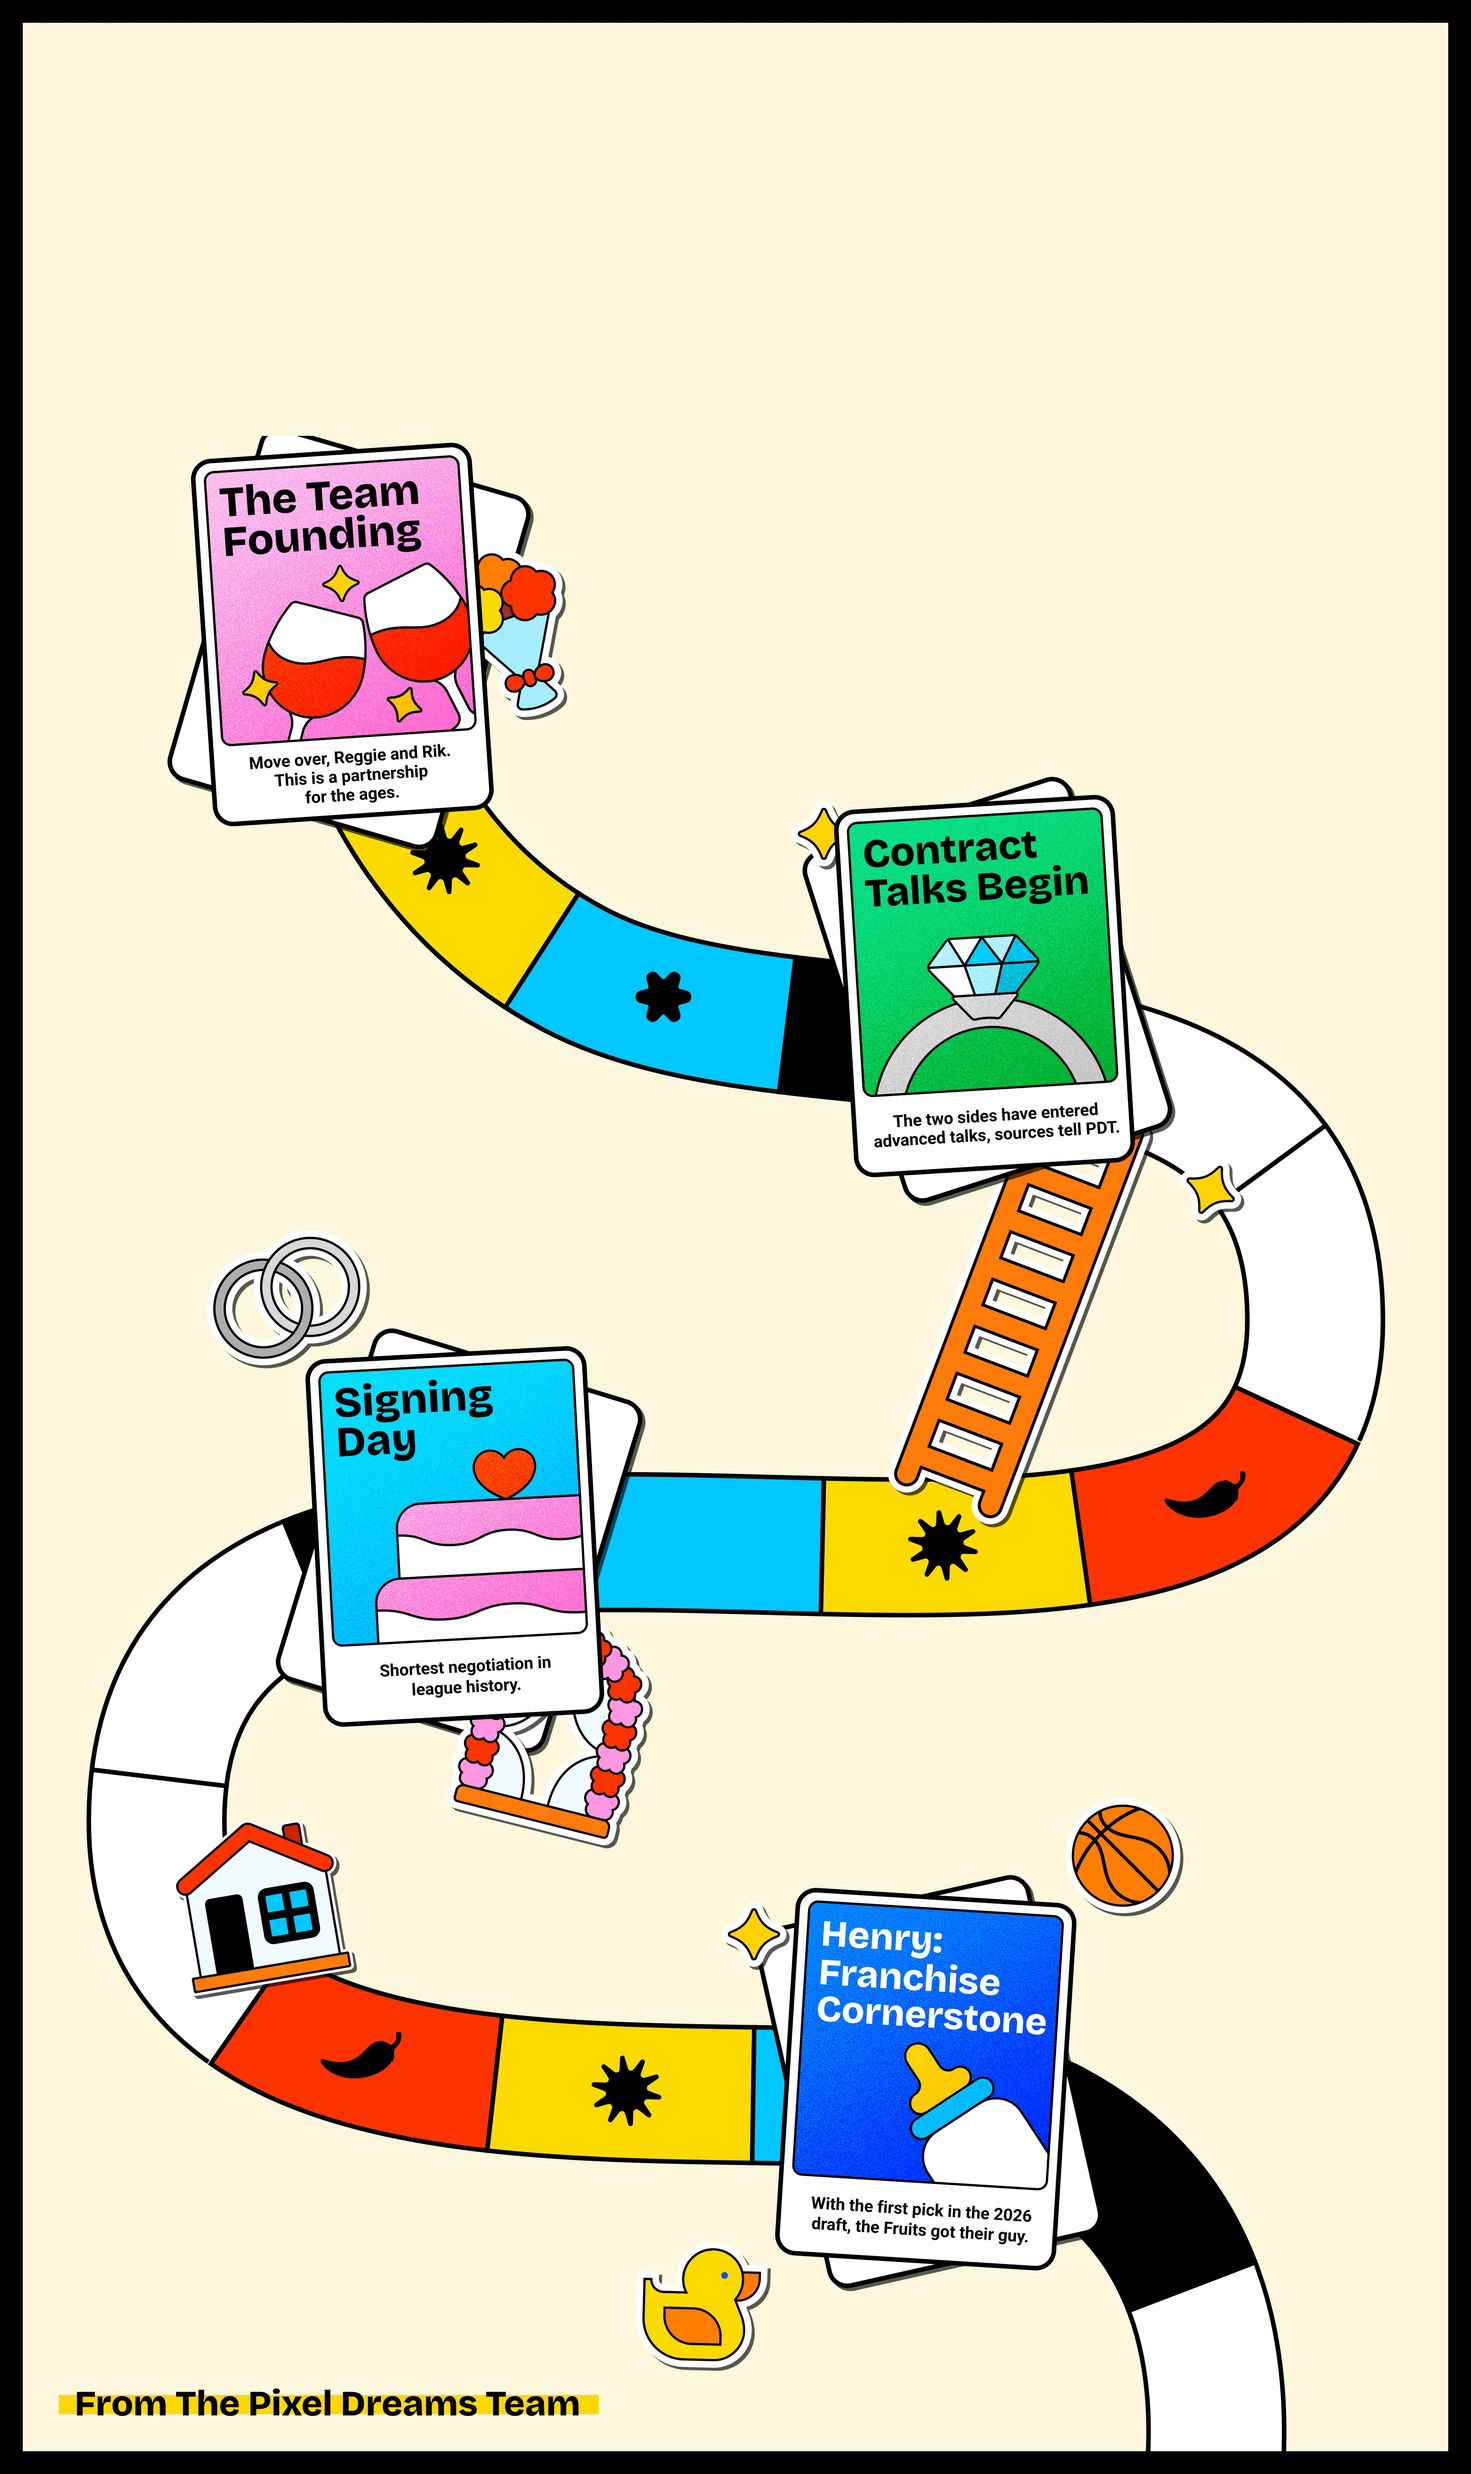
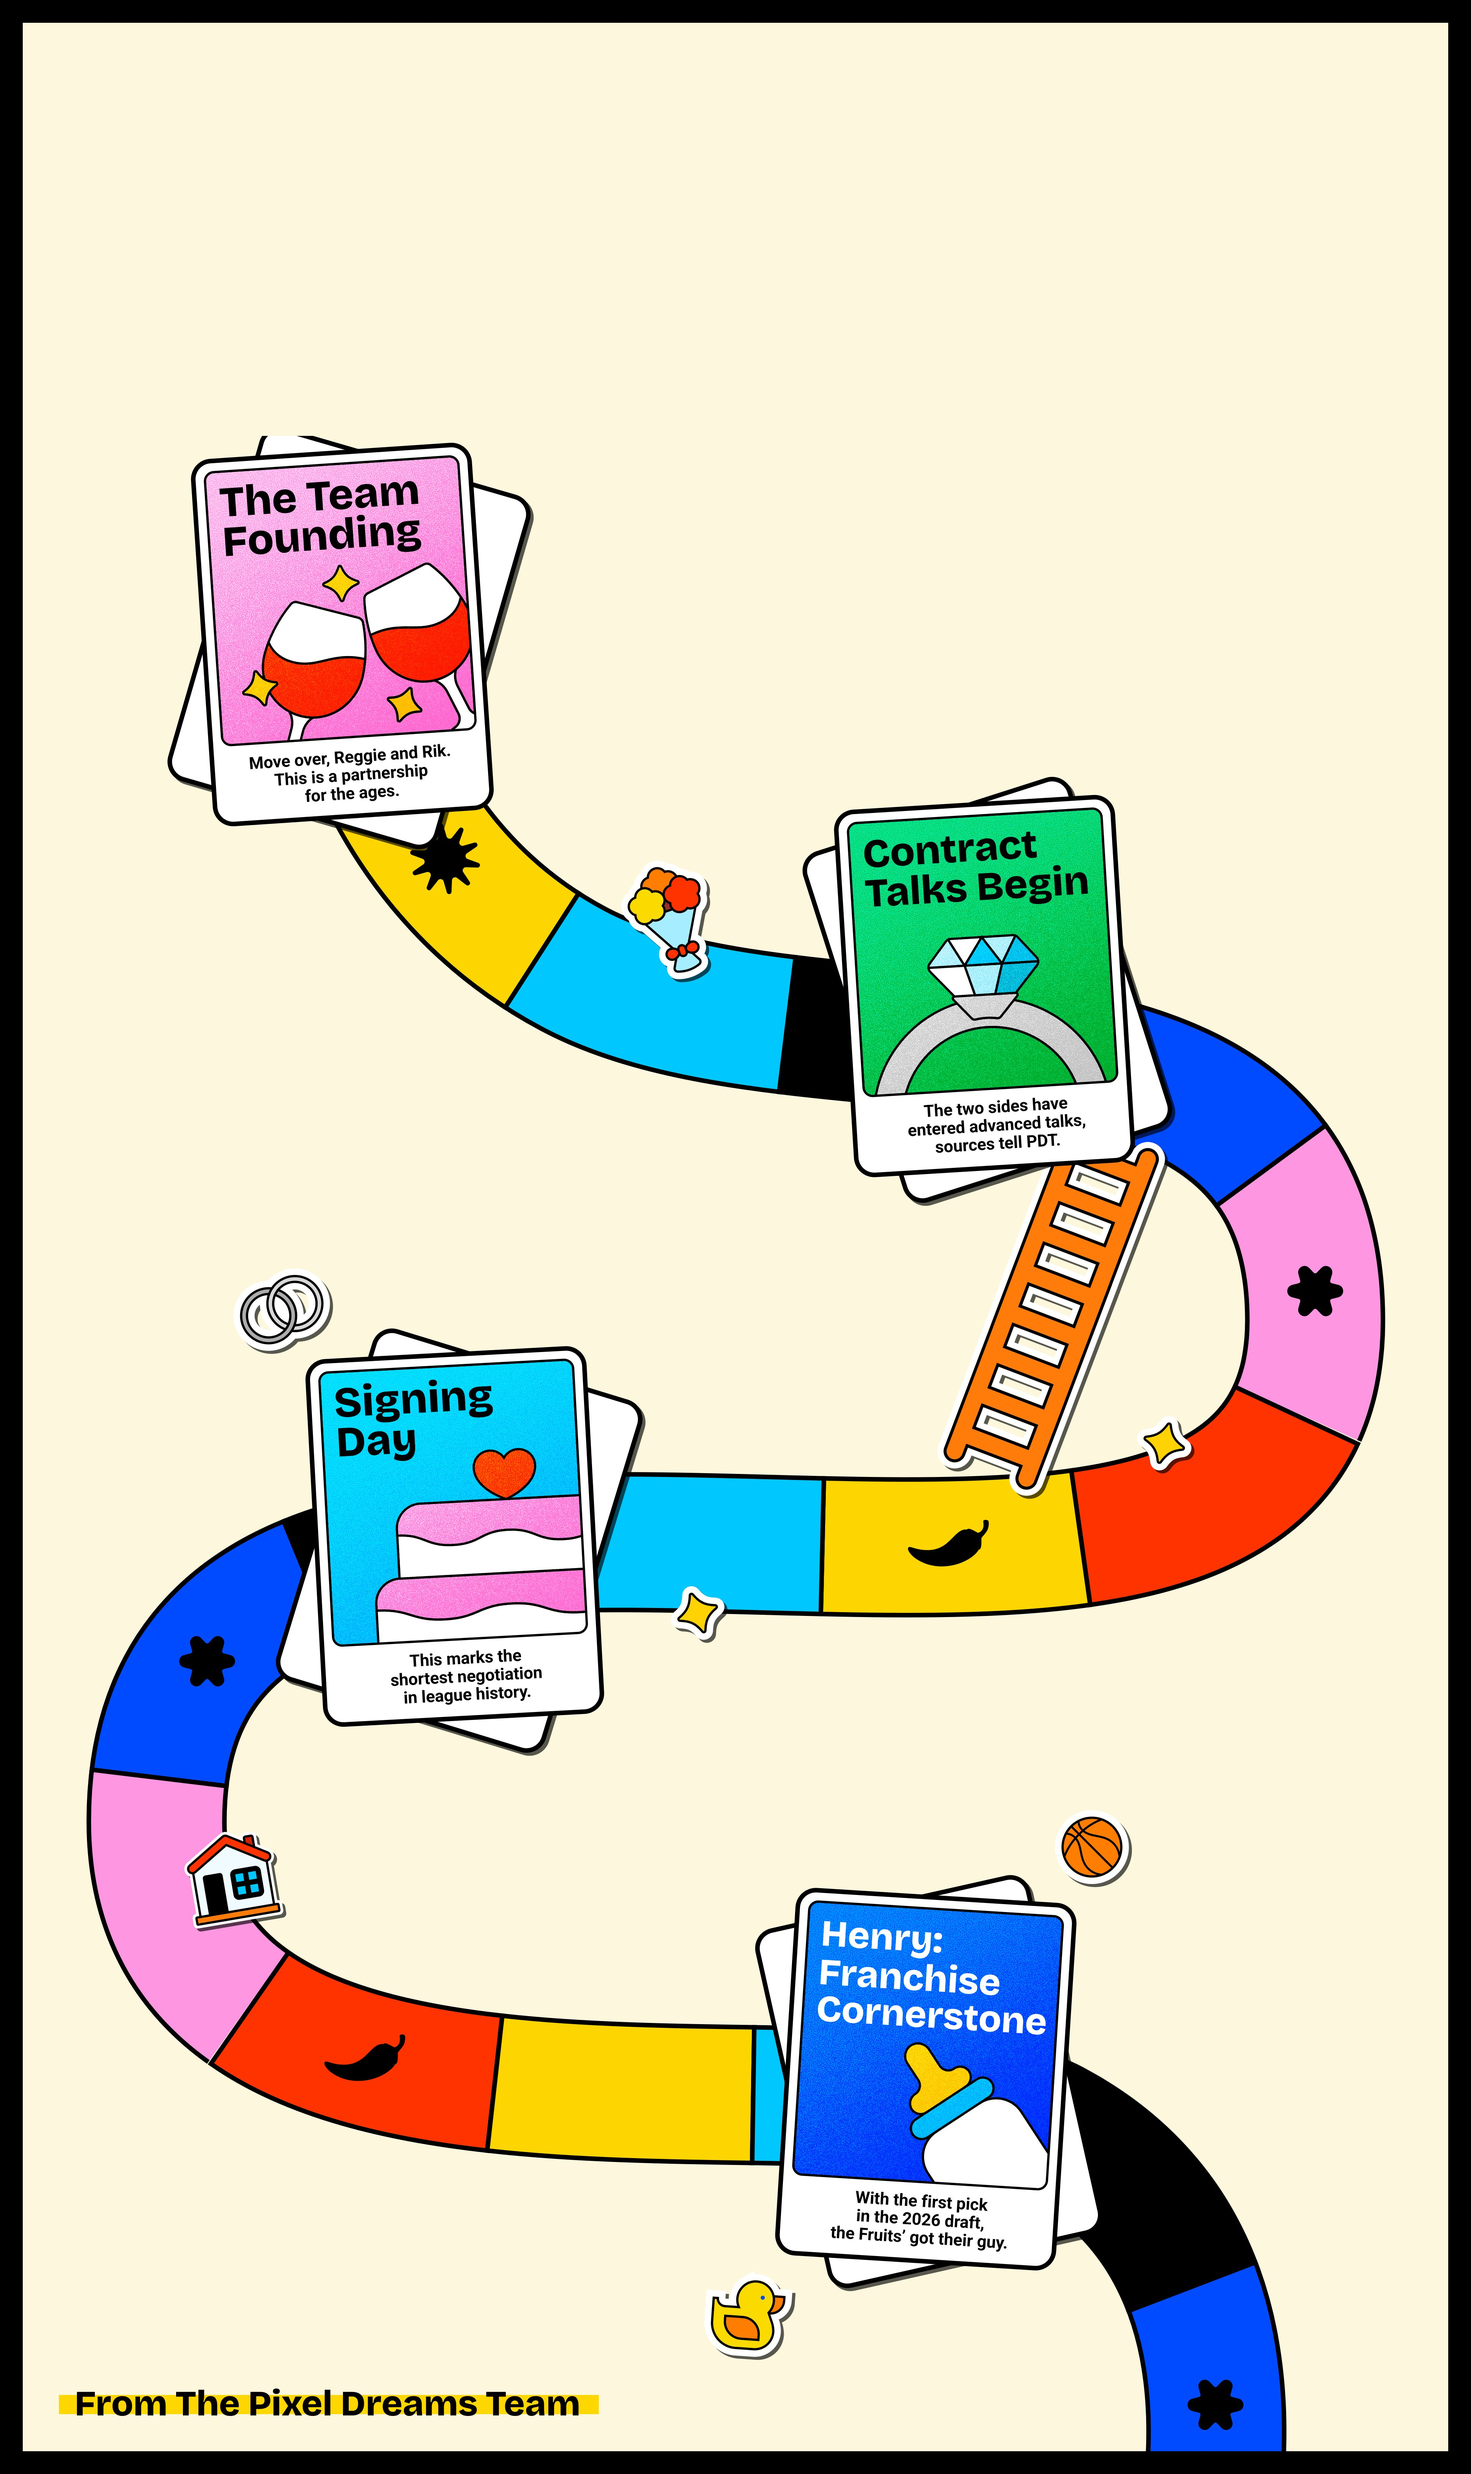
Updated board art (recolored 6-color track) + Aug 13 PM feedback
- Re-extracted assets from Kharisel's updated .ai: blue/pink track
  segments, revised captions on Signing Day + Henry, moved stickers.
  Card slot transforms measured identical — art swap only.
- Draw is now a single click: card flies from the deck and lies flat
  on its slot, flipping mid-flight. No shuffle, no popup, no X.
  (Reveal popup + X/ESC remain for free-explore revisits.)
- Faster intro zoom after Let's Celebrate (1.1s -> 0.7s)
- Board is manually pannable during play (drag / touch / wheel);
  camera still auto-follows each draw
- Play zoom tightened a notch (cardHeight 0.26 -> 0.29)

diff --git a/js/main.js b/js/main.js
@@ -327,78 +327,43 @@ function promptDeck() {
       onComplete: () => gsap.set(deck, { filter: "none" }) });
 }
 
-/* ================= draw: shuffle → reveal popup → land → walk ================= */
+/* ================= draw: card flies from the deck, lies flat on its slot =================
+   No shuffle, no popup, no X (Waheed, Aug 13 PM): clicking the deck sends
+   the card straight to its board position, flipping face-up mid-flight. */
 function drawCard() {
   if (busy || freeExplore || drawn >= KIT.milestones.length) return;
   busy = true;
   deckBubble.textContent = "";
 
-  const cards = deck.querySelectorAll(".deck-card");
-  const shuffle = gsap.timeline({ onComplete: () => showReveal(drawn, false) });
-  cards.forEach((c, i) => {
-    shuffle.to(c, {
-      x: gsap.utils.random(-26, 26),
-      y: gsap.utils.random(-20, 8),
-      rotation: gsap.utils.random(-16, 16),
-      duration: 0.13,
-    }, i * 0.04)
-    .to(c, { x: 0, y: 0, rotation: 0, duration: 0.14 }, ">");
-  });
-  shuffle.repeat(1);
-}
-
-// the reveal popup: dimmed backdrop, flip, then an X in the corner.
-// In revisit mode (free explore) the X just closes.
-function showReveal(index, revisit) {
-  const m = KIT.milestones[index];
-  el("revealImg").src = m.face;
-  el("revealImg").alt = m.alt;
-  gsap.set(revealInner, { rotationY: revisit ? 180 : 0 });
-  gsap.set(revealClose, { opacity: 0, scale: 0.4, pointerEvents: "none" });
-  reveal.style.display = "grid";
-  gsap.set(reveal, { opacity: 1 });
-  reveal.dataset.index = index;
-  reveal.dataset.revisit = revisit ? "1" : "";
-
-  const tl = gsap.timeline({
-    onComplete: () => {
-      gsap.to(revealClose, { opacity: 1, scale: 1, duration: 0.25, ease: "back.out(2)" });
-      gsap.set(revealClose, { pointerEvents: "auto" });
-      busy = false; // waiting on the X
-    },
-  });
-  if (revisit) {
-    tl.from(revealCard, { scale: 0.5, opacity: 0, duration: 0.3, ease: "back.out(1.5)" });
-  } else {
-    tl.from(revealCard, { scale: 0.2, y: 220, rotation: -10, duration: 0.4, ease: "back.out(1.4)" })
-      .to(revealInner, { rotationY: 180, duration: KIT.timing.flipDur, ease: "power2.inOut" });
-  }
-}
-
-// X clicked: back to the board. On a fresh draw the card lands on its
-// slot and the pawns walk to it (the ONLY time the camera moves — Sarah).
-function closeReveal() {
-  if (busy) return;
-  const revisit = reveal.dataset.revisit === "1";
-  if (revisit) {
-    gsap.to(reveal, { opacity: 0, duration: 0.25, onComplete: () => {
-      reveal.style.display = "none";
-    }});
-    return;
-  }
-  busy = true;
-  const index = Number(reveal.dataset.index);
+  const index = drawn;
   const m = KIT.milestones[index];
   const slotEl = el(`slot-${index}`);
 
-  // fly the popup card toward the slot's on-screen position
+  el("revealImg").src = m.face;
+  el("revealImg").alt = m.alt;
+  gsap.set(revealClose, { opacity: 0, scale: 0.4, pointerEvents: "none" });
+  gsap.set(revealInner, { rotationY: 0 }); // back showing
+  reveal.classList.add("fly-mode"); // transparent, click-through
+  reveal.style.display = "grid";
+  gsap.set(reveal, { opacity: 1 });
+
+  const card = revealCard.getBoundingClientRect(); // centered, natural size
+  const from = deck.getBoundingClientRect();
   const target = slotEl.getBoundingClientRect();
-  const from = revealCard.getBoundingClientRect();
+  const d = KIT.timing.flyDur;
+
+  gsap.set(revealCard, {
+    x: from.left + from.width / 2 - (card.left + card.width / 2),
+    y: from.top + from.height / 2 - (card.top + card.height / 2),
+    scale: from.width / card.width,
+    rotation: 0,
+  });
   gsap.timeline({
     onComplete: () => {
       slotEl.classList.add("filled");
       reveal.style.display = "none";
-      gsap.set(revealCard, { x: 0, y: 0, scale: 1, opacity: 1, rotation: 0 });
+      reveal.classList.remove("fly-mode");
+      gsap.set(revealCard, { x: 0, y: 0, scale: 1, rotation: 0 });
       drawn += 1;
 
       walkPawnsTo(milestoneStandT(index), true, () => {
@@ -411,18 +376,40 @@ function closeReveal() {
       });
     },
   })
-    .to(reveal, { backgroundColor: "rgba(5,7,22,0)", duration: 0.4 }, 0)
-    .to(revealClose, { opacity: 0, duration: 0.15 }, 0)
     .to(revealCard, {
-      x: target.left + target.width / 2 - (from.left + from.width / 2),
-      y: target.top + target.height / 2 - (from.top + from.height / 2),
-      scale: target.width / from.width,
+      x: target.left + target.width / 2 - (card.left + card.width / 2),
+      y: target.top + target.height / 2 - (card.top + card.height / 2),
+      scale: target.width / card.width,
       rotation: m.slot.angle,
-      duration: 0.65,
+      duration: d,
       ease: "power2.inOut",
     }, 0)
-    .to(revealCard, { opacity: 0, duration: 0.12 }, "-=0.1")
-    .set(reveal, { backgroundColor: "" });
+    .to(revealInner, { rotationY: 180, duration: d * 0.8, ease: "power2.inOut" }, 0);
+}
+
+// revisit popup (free explore only): dimmed backdrop, X / ESC to close
+function showReveal(index) {
+  const m = KIT.milestones[index];
+  el("revealImg").src = m.face;
+  el("revealImg").alt = m.alt;
+  gsap.set(revealInner, { rotationY: 180 });
+  gsap.set(revealClose, { opacity: 0, scale: 0.4, pointerEvents: "none" });
+  reveal.style.display = "grid";
+  gsap.set(reveal, { opacity: 1 });
+
+  gsap.timeline({
+    onComplete: () => {
+      gsap.to(revealClose, { opacity: 1, scale: 1, duration: 0.25, ease: "back.out(2)" });
+      gsap.set(revealClose, { pointerEvents: "auto" });
+    },
+  })
+    .from(revealCard, { scale: 0.5, opacity: 0, duration: 0.3, ease: "back.out(1.5)" });
+}
+
+function closeReveal() {
+  gsap.to(reveal, { opacity: 0, duration: 0.25, onComplete: () => {
+    reveal.style.display = "none";
+  }});
 }
 
 /* ================= gift selection ================= */
@@ -568,7 +555,7 @@ function startFreeExplore() {
   document.querySelectorAll(".slot.filled").forEach((slot) => {
     slot.addEventListener("click", () => {
       if (dragMoved) return;
-      showReveal(Number(slot.dataset.index), true);
+      showReveal(Number(slot.dataset.index));
     });
   });
   // ease out to a view of the whole journey
@@ -577,10 +564,13 @@ function startFreeExplore() {
   cameraTo(camTargetFor(p.x, p.y, fs), 1.2, "power2.inOut");
 }
 
-/* --- free-explore pan: drag / touch-drag / wheel, clamped --- */
+/* --- manual pan: drag / touch-drag / wheel, clamped ---
+   Active during play too (between animations), not just free explore —
+   the camera still auto-follows on each draw. */
+const canPan = () => freeExplore || !busy;
 let dragging = false, dragMoved = false, lastX = 0, lastY = 0;
 stage.addEventListener("pointerdown", (e) => {
-  if (!freeExplore) return;
+  if (!canPan()) return;
   dragging = true; dragMoved = false;
   lastX = e.clientX; lastY = e.clientY;
 });
@@ -595,7 +585,7 @@ window.addEventListener("pointermove", (e) => {
 });
 window.addEventListener("pointerup", () => { dragging = false; });
 stage.addEventListener("wheel", (e) => {
-  if (!freeExplore) return;
+  if (!canPan()) return;
   e.preventDefault();
   const c = clampCam(cam.x - e.deltaX, cam.y - e.deltaY, cam.s);
   cam.x = c.x; cam.y = c.y;

diff --git a/js/config.js b/js/config.js
@@ -141,15 +141,16 @@ const KIT = {
   // viewport, but the board never renders wider than boardMaxWidth ×
   // viewport width — that cap is what keeps phones zoomed OUT
   camera: {
-    cardHeight: 0.26,
+    cardHeight: 0.29,
     cardMaxWidth: 0.70,
     boardMaxWidth: 1.6,
   },
 
   // animation pacing (Sarah asked for snappier transitions, Aug 13)
   timing: {
-    flipDur: 0.45,        // card flip in the reveal popup
-    introZoomDur: 1.1,    // overview → play zoom
+    flipDur: 0.45,        // card flip in the revisit popup
+    flyDur: 0.6,          // deck → slot flight of a drawn card
+    introZoomDur: 0.7,    // overview → play zoom
     overviewHold: 0.8,    // beat on the establishing shot
     walkSpeed: 0.10,      // path fraction per second the pawns walk
   },

diff --git a/index.html b/index.html
@@ -8,7 +8,7 @@
   <link rel="preconnect" href="https://fonts.googleapis.com">
   <link rel="preconnect" href="https://fonts.gstatic.com" crossorigin>
   <link href="https://fonts.googleapis.com/css2?family=Bricolage+Grotesque:opsz,wdth,wght@10..48,75..100,200..800&family=DM+Sans:wght@500;700&display=swap" rel="stylesheet">
-  <link rel="stylesheet" href="css/styles.css?v=8">
+  <link rel="stylesheet" href="css/styles.css?v=9">
 </head>
 <body>
 
@@ -107,7 +107,7 @@
   </section>
 
   <script src="js/vendor/gsap.min.js"></script>
-  <script src="js/config.js?v=5"></script>
-  <script src="js/main.js?v=11"></script>
+  <script src="js/config.js?v=6"></script>
+  <script src="js/main.js?v=12"></script>
 </body>
 </html>

diff --git a/css/styles.css b/css/styles.css
@@ -206,6 +206,11 @@ h1, h2, h3, h4, .btn {
   place-items: center;
   background: var(--dim); /* dimmed backdrop, board visible behind */
 }
+/* draw flight: the same card element, but no dim and click-through */
+.reveal-overlay.fly-mode {
+  background: transparent;
+  pointer-events: none;
+}
 .reveal-card {
   position: relative;
   width: var(--card-w);
